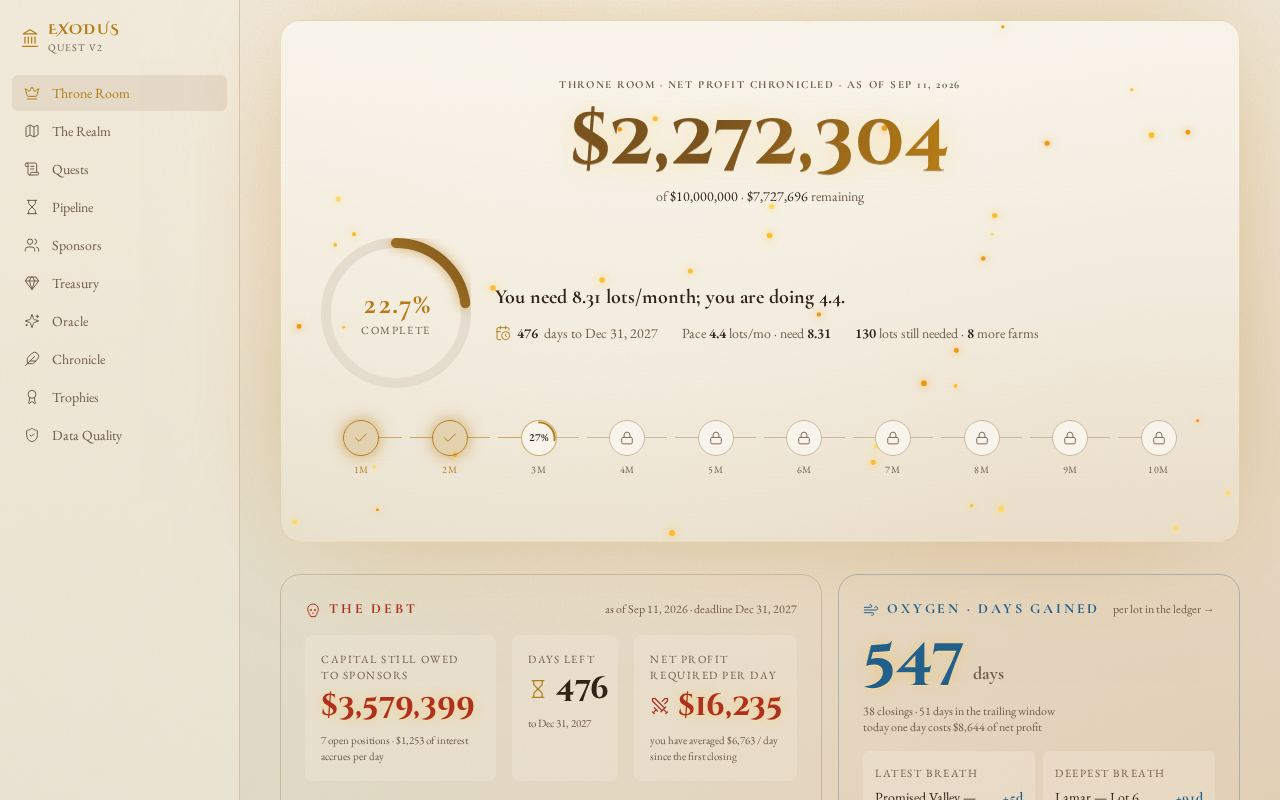
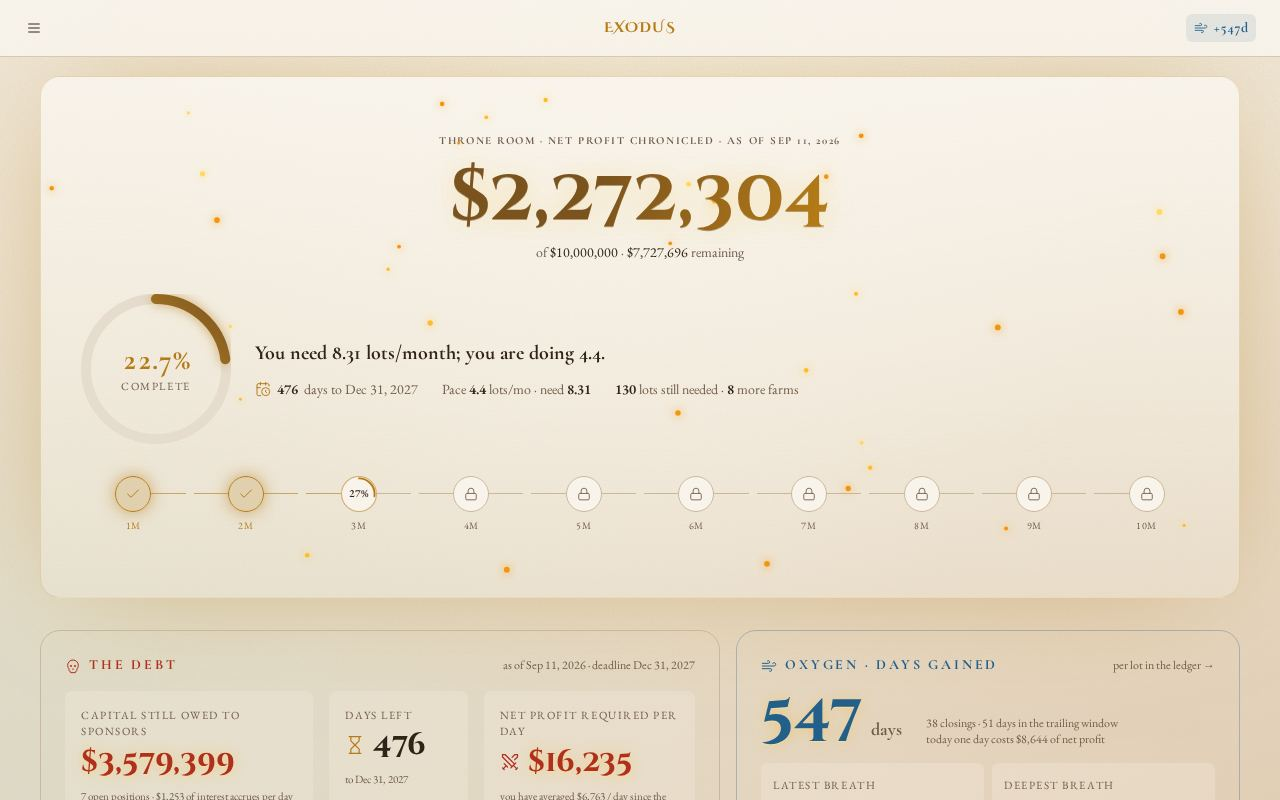
chore: verify:live picks themes from the nav drawer
The compact shell switcher is gone; the live smoke test opens the
hamburger drawer to change skins. Refresh docs/live-*.jpg from prod.

diff --git a/scripts/verify-live.ts b/scripts/verify-live.ts
@@ -5,8 +5,8 @@
  *
  * Read-only. Signs in with QUEST_TEST_EMAIL / QUEST_TEST_PASSWORD (from .env or the shell), waits
  * for the realm to load, asserts the net-profit counter is a dollar amount > 0, that the SPA
- * rewrite serves deep links (/pipeline reloaded directly), and that picking each theme on /login
- * sets html[data-theme] and survives a reload. Writes docs/live-<theme>.jpg for the record.
+ * rewrite serves deep links (/pipeline reloaded directly), and that picking each theme in the
+ * nav drawer sets html[data-theme] and survives a reload. Writes docs/live-<theme>.jpg for the record.
  * Exit code 0 on success, 1 on any failure.
  */
 import { mkdirSync } from "node:fs";
@@ -67,26 +67,29 @@ async function main() {
   const trapped = Number(await page.getByTestId("pipeline-trapped").getAttribute("data-target"));
   console.log(`✓ Throne Room: net profit $${target.toLocaleString("en-US")} · trapped $${trapped.toLocaleString("en-US")} · "${verdict}"`);
 
-  // 4. Every theme switches and persists.
+  // 4. Every theme switches and persists (drawer skin picker when signed in; /login when not).
   for (const theme of THEMES) {
-    await page.goto(`${base}/login`);
-    // Signed-in users are redirected off /login; the compact switcher in the shell covers that.
-    const onLogin = new URL(page.url()).pathname.startsWith("/login");
-    const option = page.locator(`[data-theme-option='${theme}']`).first();
-    await option.waitFor({ timeout: 30_000 });
+    await page.goto(`${base}/`);
+    await waitForRealm(page);
+    await page.getByTestId("nav-menu-button").click();
+    const drawer = page.getByTestId("nav-drawer");
+    await drawer.waitFor({ timeout: 15_000 });
+    const option = drawer.locator(`[data-theme-option='${theme}']`).first();
+    await option.waitFor({ timeout: 15_000 });
     await option.click();
     const applied = await page.locator("html").getAttribute("data-theme");
     if (applied !== theme) fail(`clicking ${theme} set data-theme=${applied}`);
     const stored = await page.evaluate(() => localStorage.getItem("quest.theme"));
     if (stored !== theme) fail(`localStorage quest.theme=${stored} after picking ${theme}`);
-    await page.goto(`${base}/`);
+    await page.keyboard.press("Escape").catch(() => undefined);
+    await page.reload();
     await waitForRealm(page);
     const afterReload = await page.locator("html").getAttribute("data-theme");
     if (afterReload !== theme) fail(`${theme} did not survive a reload (got ${afterReload})`);
     await page.getByTestId("net-profit-counter").waitFor({ timeout: 60_000 });
     await page.waitForTimeout(3500);
     await page.screenshot({ path: `docs/live-${theme}.jpg`, type: "jpeg", quality: 78 });
-    console.log(`✓ ${theme}: applied${onLogin ? " from /login" : " from the shell switcher"}, persisted, Throne Room rendered → docs/live-${theme}.jpg`);
+    console.log(`✓ ${theme}: applied from the nav drawer, persisted, Throne Room rendered → docs/live-${theme}.jpg`);
   }
 
   if (consoleErrors.length) fail(`console errors:\n  ${consoleErrors.join("\n  ")}`);
